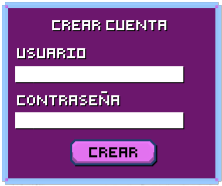
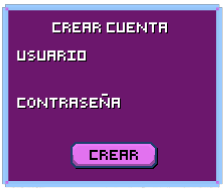
Arreglo Interfaces

diff --git a/hotlinemiauami/src/main/resources/static/scenes/CreateAccScene.js b/hotlinemiauami/src/main/resources/static/scenes/CreateAccScene.js
@@ -11,6 +11,7 @@ class CreateAccScene extends Phaser.Scene {
         this.load.image('crearCuenta', './Interfaz/crearcuenta.png');
         this.load.image('crearboton', './Interfaz/crearboton.png');
         this.load.image('menuPrincipal', './Interfaz/menuPrincipal.png');
+        this.load.image('volver', './Interfaz/volver.png');
     }
 
     create() {
@@ -41,15 +42,25 @@ class CreateAccScene extends Phaser.Scene {
 
         this.events.on('shutdown', this.removeFields, this);
 
+        const returnButton = this.add.image(960,720, 'volver')
+        .setScale(0.6)
+        .setOrigin(0.5)
+        .setInteractive();
+        returnButton.on('pointerdown', () => {
+            this.scene.start('LoginScene');
+        });
+
+        returnButton.y = 650;
+
     }
 
     createAccountFields() {
         this.usernameField = document.createElement('input');
         this.usernameField.id = 'username-input';
-        this.usernameField.placeholder = 'es este';
+        this.usernameField.placeholder = 'Usuario';
         this.usernameField.style.position = 'absolute';
-        this.usernameField.style.left = '758px';
-        this.usernameField.style.top = '412px';
+        this.usernameField.style.left = '598px';
+        this.usernameField.style.top = '317px';
         this.usernameField.style.fontSize = '16px';
         this.usernameField.style.padding = '8px';
         this.usernameField.style.width = '298px';
@@ -59,11 +70,11 @@ class CreateAccScene extends Phaser.Scene {
         // Crear un campo de texto para la contraseña
         this.passwordField = document.createElement('input');
         this.passwordField.id = 'password-input';
-        this.passwordField.placeholder = 'aqui la contraseña';
+        this.passwordField.placeholder = 'Contraseña';
         this.passwordField.type = 'password';
         this.passwordField.style.position = 'absolute';
-        this.passwordField.style.left = '758px';
-        this.passwordField.style.top = '520px';
+        this.passwordField.style.left = '598px';
+        this.passwordField.style.top = '400px';
         this.passwordField.style.fontSize = '16px';
         this.passwordField.style.padding = '8px';
         this.passwordField.style.width = '298px';

diff --git a/hotlinemiauami/src/main/resources/static/scenes/LoginScene.js b/hotlinemiauami/src/main/resources/static/scenes/LoginScene.js
@@ -42,6 +42,17 @@ class LoginScene extends BaseScene {
                 this.scene.start('CreateAccScene'); // Cambia a la escena 'CreateAccScene'
             });
 
+
+            const returnButton = this.add.image(960,720, 'volver')
+        .setScale(0.6)
+        .setOrigin(0.5)
+        .setInteractive();
+        returnButton.on('pointerdown', () => {
+            this.scene.start('TitleMenu');
+        });
+
+        returnButton.y = 675;
+
         // Agregar los campos de texto para el nombre de usuario y la contraseña
         this.createLoginFields();
 
